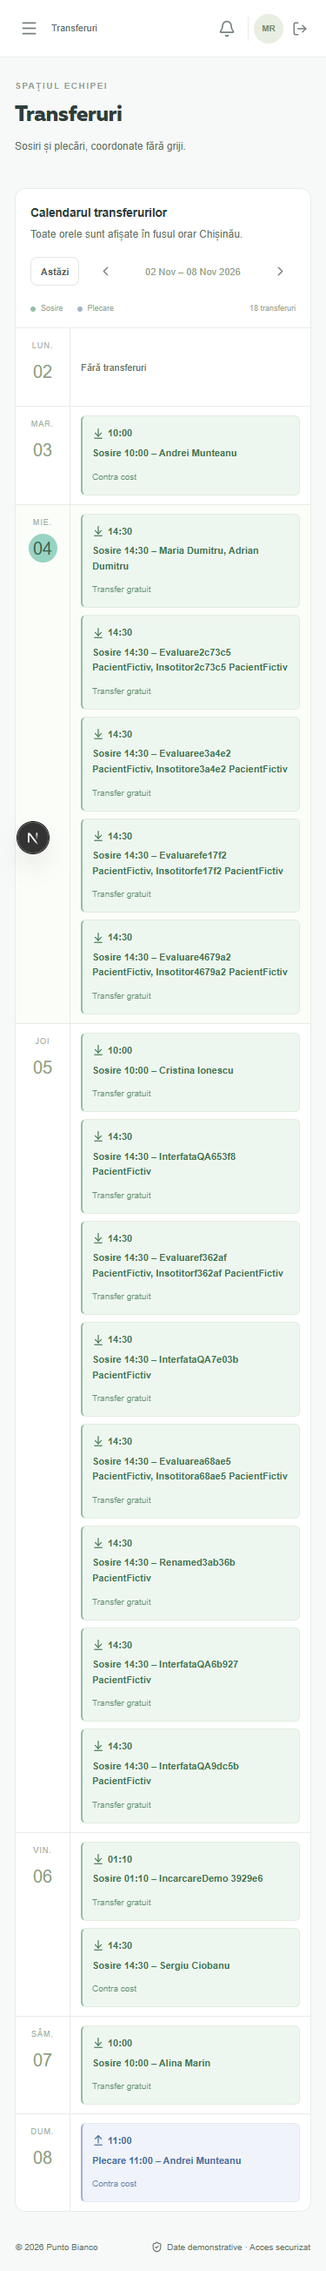
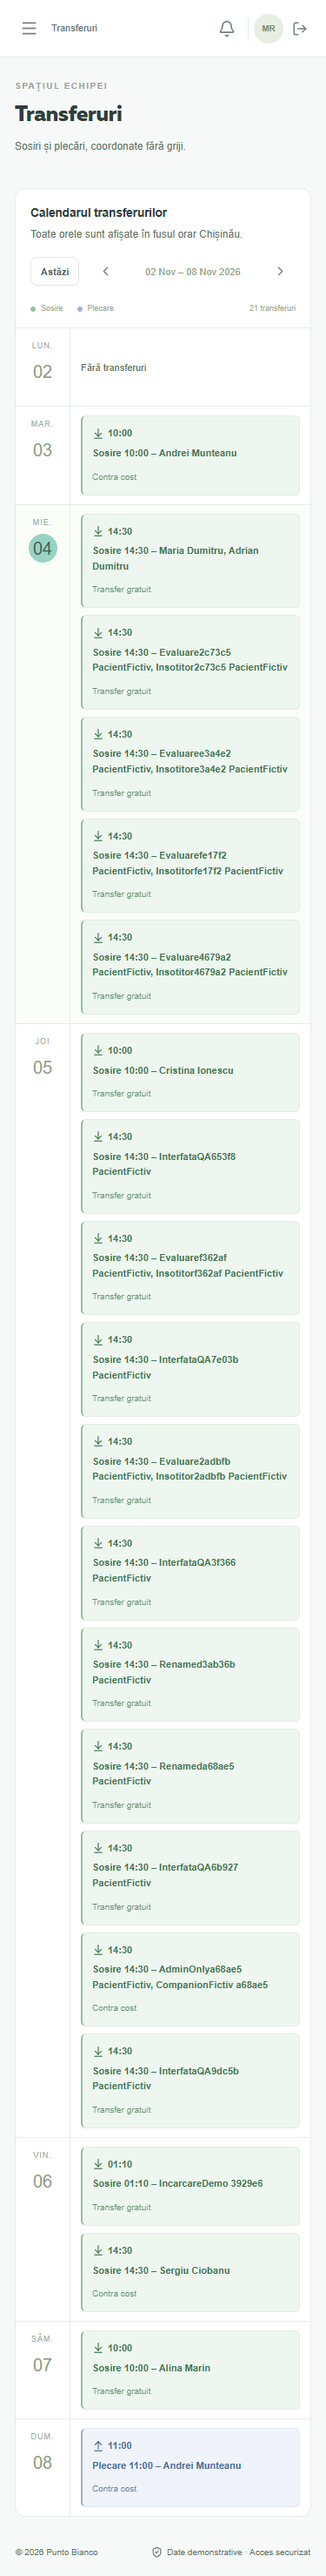
Record full assessment audit and repeat hosted 50-session verification

diff --git a/tests/load.integration.ts b/tests/load.integration.ts
@@ -23,15 +23,20 @@ try {
   /* First run. */
 }
 const measurements: { status: number; ms: number; method: string }[] = [];
+const available = saved;
+const reusedTokens = new Set<string>();
+saved = [];
 let subscribed = 0,
   events = 0;
 try {
   for (let batch = 0; batch < 10; batch++) {
+    let newSessions = 0;
     const batchResults = await Promise.allSettled(
       Array.from({ length: 5 }, async (_, j) => {
         const i = batch * 5 + j,
           role = roles[i % roles.length];
-        let session = saved[i];
+        let session = available.find((s) => s.role === role && !reusedTokens.has(s.token));
+        if (session) reusedTokens.add(session.token);
         const jar: Record<string, string> = session?.jar ?? {};
         if (!session) {
           const auth = createServerClient(
@@ -62,8 +67,9 @@ try {
             userId: signed.data.user.id,
             expiresAt: signed.data.session.expires_at!,
           };
-          saved[i] = session;
+          newSessions++;
         }
+        saved[i] = session;
         const client = createClient(
           process.env.NEXT_PUBLIC_SUPABASE_URL!,
           process.env.NEXT_PUBLIC_SUPABASE_PUBLISHABLE_KEY!,
@@ -85,6 +91,11 @@ try {
     await writeFile('.test-sessions.local.json', JSON.stringify(saved.filter(Boolean)));
     const failed = batchResults.find((r) => r.status === 'rejected');
     if (failed?.status === 'rejected') throw failed.reason;
+    // Prepare sessions below the token endpoint's refill rate, without changing Auth limits.
+    if (newSessions && batch < 9) {
+      console.log(`Prepared ${saved.filter(Boolean).length}/50 sessions; pacing new logins.`);
+      await new Promise((resolve) => setTimeout(resolve, 11000));
+    }
   }
   console.log('Authenticated sessions:', sessions.length);
   await Promise.all(

diff --git a/docs/ASSESSMENT-AUDIT.md b/docs/ASSESSMENT-AUDIT.md
@@ -1,0 +1,73 @@
+# Assessment requirement audit
+
+Audited on 4 November 2026 against the original `Tema de acasa Dezvoltator sisteme digitale PUNTO BIANCO.docx` and the matching brief pasted into the conversation. Functional revision: `471eb19`. Evidence below distinguishes implemented behavior from assumptions and external handoff tasks.
+
+Application: https://punto-bianco-operations.vercel.app  
+Private repository: https://github.com/Scofari/punto-bianco-operations
+
+## Application requirements
+
+| Requirement from the brief                             | Status                                | Evidence / qualification                                                                                                                                                                                                                                                                                   |
+| ------------------------------------------------------ | ------------------------------------- | ---------------------------------------------------------------------------------------------------------------------------------------------------------------------------------------------------------------------------------------------------------------------------------------------------------- |
+| Node.js, React, PostgreSQL                             | Pass                                  | Next.js App Router and React with TypeScript; real Supabase PostgreSQL and Auth, not browser-only mock storage.                                                                                                                                                                                            |
+| All seven staff roles                                  | Pass                                  | Seven independently authenticated demo accounts; API permission matrix and browser role workspaces tested.                                                                                                                                                                                                 |
+| Each role sees only relevant information               | Pass                                  | Every API operation reloads the authoritative active staff role. Driver, lodging and accounting responses exclude treatment; private operational schema is inaccessible through the browser Data API.                                                                                                      |
+| Accountant and quality control are read-only           | Pass                                  | No mutation controls; direct create/update/task/reservation/staff mutation requests return `403` for both roles.                                                                                                                                                                                           |
+| Patient first and last name                            | Pass                                  | Required, trimmed and length-validated on client/API.                                                                                                                                                                                                                                                      |
+| Optional companion without treatment                   | Pass                                  | Name is persisted and included on the shared transfer event.                                                                                                                                                                                                                                               |
+| Treated companion has all the same fields              | Pass                                  | Reuses the complete registration form and schema; independent linked visit, case and lodging request. Matching transfers are grouped.                                                                                                                                                                      |
+| Arrival and departure dates and times                  | Pass                                  | Both required; departure must be later. Clinic-local input and UTC persistence. Field-wide native picker activation is verified.                                                                                                                                                                           |
+| Availability comment                                   | Pass                                  | Free-text comment persisted and visible to permitted case roles. Empty means no stated restriction.                                                                                                                                                                                                        |
+| Treatment free text                                    | Pass                                  | Persisted separately from logistics and omitted from logistics-role payloads.                                                                                                                                                                                                                              |
+| All four apartment categories                          | Pass                                  | Studio; one bedroom + sofa; two bedrooms; two bedrooms + living. Every enum value is tested.                                                                                                                                                                                                               |
+| Free/paid lodging and number of free days              | Pass with agreed interpretation       | The approved plan uses **nights**, not inclusive calendar days. Free lodging requires 1–365 whole nights, capped at clinic-local stay nights; paid lodging has zero free nights. Short overnight stays and DST are covered. Confirm this business interpretation with the clinic at handoff.               |
+| No transfer / free or paid / one-way or round-trip     | Pass                                  | Explicit `none`, `arrival`, `departure`, `round_trip` choices; paid one-way and grouped round-trip cases verified through the API.                                                                                                                                                                         |
+| Responsible coordinator selected from a list           | Pass with permission rule             | Only active admin/coordinator identities are valid. Admin may assign a coordinator; a coordinator registers and manages their own assignments, as agreed in the implementation plan.                                                                                                                       |
+| Back Office automatic notification                     | Pass                                  | Recipient-specific notifications written in the registration transaction; persisted notifications verified through real role sessions.                                                                                                                                                                     |
+| Back Office sorted by arrival                          | Pass                                  | Server-side ascending arrival order with stable ID tie-break. Search/status filters operate before pagination.                                                                                                                                                                                             |
+| Back Office “Început” then “Finalizat”                 | Pass                                  | Enforced server transition sequence; concurrent claims have one winner; completed work survives visit edits.                                                                                                                                                                                               |
+| Driver calendar and requested labels                   | Pass                                  | Desktop week calendar and mobile agenda. Labels now include direction, clinic time and passenger names: `Sosire 14:30 – …`. Week boundaries are independent of the viewer's timezone; Hawaii browser workflow and DST unit checks pass. This is an internal calendar, not Google Calendar synchronization. |
+| Accommodation notification, “Neprelucrat” → “Rezervat” | Pass                                  | Transactional notification, persisted request and required reservation reference/address; browser workflow covers reservation. Changed lodging requirements visibly warn and reset stale reservations.                                                                                                     |
+| Responsive design, supplied logo and colors            | Pass                                  | Original complete logo, mint `#98D3C3` and gray `#565555`; desktop and 375px layouts checked. No mobile document overflow in the browser workflow.                                                                                                                                                         |
+| At least 50 simultaneously connected users             | Bounded verification                  | Hosted 50-session / 50-subscription load evidence is in `load-results.json` and `VERIFICATION.md`. Sessions use seven repeated demo identities; this is not a long-running capacity guarantee or a 50-person usability test.                                                                               |
+| Later Bitrix24 and other API integrations              | Foundation delivered                  | Versioned, documented `/api/v1` API; validation, authorization, idempotency and conflicts are implemented. Live Bitrix24 and machine credentials are future work, as planned.                                                                                                                              |
+| Invented data only                                     | Pass                                  | Synthetic seed data and explicitly fictional test fixtures; no real patient data imported.                                                                                                                                                                                                                 |
+| Entire Muller font family                              | **Incomplete: external asset needed** | See the font inspection below. System fallbacks preserve readable Romanian.                                                                                                                                                                                                                                |
+
+## Problems found and fixed in this audit
+
+1. Lodging search and status tabs only filtered the current 25-record page. Both lodging and case filtering now run in SQL before pagination. Totals remain accurate even on empty pages.
+2. Calendar weeks used the viewer's computer timezone. They now use clinic-local calendar dates and timezone-independent day arithmetic.
+3. Transfer headings separated the time from the requested label. The heading now matches the direction/time/name format.
+4. The admin coordinator selector included non-coordinator roles. It now offers only active eligible staff.
+5. A treated companion's renamed visit left an old name on the primary case. The linked visit's current name is now used.
+6. Browser workflow tests depended on a separate load-test session cache and assumed new patients appeared on page one. They now sign into each role independently, search globally, and exercise a different viewer timezone.
+
+The earlier negative-number and full-logo corrections are retained and regression-checked.
+
+## Font inspection
+
+The original `Muller.zip` supplies limited commercial demo weights and separate trial files, not a licensed complete production family. The authorized ExtraBold face is embedded only for basic Latin; Romanian extended characters in that demo face show demo markings, so those characters and unavailable weights use system fallbacks. Trial fonts are not deployed.
+
+The newly supplied `muller (1).zip` contains `Mller.ttf`, `COPYRIGHT.txt` and `README.txt`. Font metadata identifies a single non-variable 400-weight “Müller” font, version dated 7 October 2013, with a placeholder company copyright. Its Unicode cmap lacks `ă/Ă`, `ș/Ș` and `ț/Ț`. The archive contains no grant of web-embedding rights. It is not a full Fontfabric Muller family and has not been deployed. Completing this requirement needs an authorized full family with Romanian glyphs and web-embedding permissions.
+
+## Submission and process requirements
+
+| Deliverable                                      | Status                                                                                                                                                                                                                                                                    |
+| ------------------------------------------------ | ------------------------------------------------------------------------------------------------------------------------------------------------------------------------------------------------------------------------------------------------------------------------- |
+| Published application link                       | Available above; deployment and live workflow verified.                                                                                                                                                                                                                   |
+| Admin login and password                         | Provisioned and privately delivered; all seven accounts are in ignored `credentials.local.md`. Credentials are intentionally absent from Git.                                                                                                                             |
+| GitHub repository link                           | Available above; confirmed private. Git begins with scope notes and contains genuine implementation, verification and follow-up commits. History has not been fabricated or rewritten.                                                                                    |
+| Reviewer access if private                       | Deferred by the user until usernames are supplied; instructions below.                                                                                                                                                                                                    |
+| AI tools, corrections and what to do differently | `AI-WORKLOG.md` records actual Codex assistance, candidate-reported defects, verification and tradeoffs. No claim of unaided implementation.                                                                                                                              |
+| Suggested additional functions                   | Booking-conflict detection, cancellation/rescheduling, flight and driver details, overdue reminders, scoped Bitrix24 integration and fuller audit views.                                                                                                                  |
+| Actual hours spent                               | Not stopwatch-measured. The work log separates the original 12–16-hour estimate, the initial reconstructed active-work estimate, and later follow-up work. Candidate review/learning time must be added honestly before submission; wall-clock gaps are not coding hours. |
+| Two-working-day deadline                         | Delivery timing is visible in Git; confirm the actual receipt/submission dates with the employer. No receipt timestamp or deadline guarantee is invented.                                                                                                                 |
+
+## Grant reviewer access later
+
+Keep the repository private, as requested. Once the clinic supplies its GitHub usernames, the repository owner opens the repository's **Settings → Collaborators → Add people**, selects the exact accounts and sends invitations. Reviewers must accept before they can read the private repository. Record acceptance before sending the final repository handoff. Do not add guessed accounts. These steps follow [GitHub's collaborator instructions](https://docs.github.com/en/repositories/managing-your-repositorys-settings-and-features/repository-access-and-collaboration/inviting-collaborators-to-a-personal-repository).
+
+## Verification limits
+
+The test suite exercises meaningful workflow, ownership, concurrency, privacy and validation cases, but is not a formal security certification or exhaustive cross-browser audit. Chrome desktop/mobile emulation is verified; other browser engines are not claimed. Optional Supabase leaked-password protection remains disabled; the security advisor reports that warning and no table-exposure/RLS finding. Public signup remains disabled and demo passwords are generated. Full paid typography, personal timesheet confirmation and reviewer invitations remain handoff items rather than silently claimed completed requirements.

diff --git a/docs/VERIFICATION.md b/docs/VERIFICATION.md
@@ -3,21 +3,21 @@
 Verified on 4 November 2026, Europe/Chisinau.
 
 Application: https://punto-bianco-operations.vercel.app  
-Functional source revision: `aaeb113` (subsequent documentation commits do not change runtime behavior).
+Functional source revision: `471eb19`. The full requirement mapping and remaining external items are in [ASSESSMENT-AUDIT.md](ASSESSMENT-AUDIT.md).
 
 | Check                                               | Result                                                                                          |
 | --------------------------------------------------- | ----------------------------------------------------------------------------------------------- |
 | TypeScript, including generated Next.js route types | Pass                                                                                            |
 | ESLint                                              | Pass                                                                                            |
-| Six domain tests                                    | Pass                                                                                            |
+| Ten domain tests                                    | Pass                                                                                            |
 | Optimized production build                          | Pass locally and on Vercel                                                                      |
 | GitHub Actions                                      | Pass                                                                                            |
-| HTTP workflow tests                                 | 61 checks passed locally and on the hosted application                                          |
+| HTTP workflow tests                                 | 84 checks passed locally and on the hosted application                                          |
 | Real role sessions                                  | Admin, coordinator, Back Office, accommodation, driver, accountant, quality                     |
 | Cross-role browser workflow                         | Registration → case start/completion → reservation → transfer visibility                        |
 | Persistence                                         | Saved data and notifications survived browser reload                                            |
 | Browser JavaScript errors                           | Zero in the completed workflow                                                                  |
-| Desktop and 375px mobile                            | Visually reviewed; mobile document overflow false                                               |
+| Desktop and 375px mobile                            | Visually reviewed; mobile document overflow false; workflow also uses Hawaii timezone           |
 | Data API                                            | Private schema unavailable, recipient-only notification RLS, anonymous access and writes denied |
 | Public registration                                 | Disabled in Supabase Auth; direct signup check verifies `signup_disabled`                       |
 | Runtime dependency audit                            | Zero vulnerabilities after the Zod patch                                                        |
@@ -28,12 +28,18 @@ Functional source revision: `aaeb113` (subsequent documentation commits do not c
 The load script established 50 distinct Auth sessions over seven fictional identities and held 50 authorized realtime subscriptions concurrently. Three measured rounds issued 150 requests, including 24 idempotent registration replays.
 
 - Unexpected errors: 0 (0%).
-- Warm-request p50: 278 ms.
-- Warm-request p95: 539 ms.
-- Maximum: 906 ms.
-- Realtime notifications observed: 29.
+- Warm-request p50: 304 ms.
+- Warm-request p95: 483 ms.
+- Maximum: 1006 ms.
+- Realtime notifications observed: 27.
 
-These measurements satisfy the planned 50-session check and the 1.5-second warm p95 target for this test. They do not establish sustained production capacity, large-dataset performance, or a 50-person usability study. Authentication burst limiting was preserved; initial session preparation was resumed using privately cached successful sessions. Raw results and limitations are in `load-results.json`.
+These measurements were repeated at 15:42 UTC on 4 November against the audit revision and satisfy the planned 50-session check and the 1.5-second warm p95 target for this test. They do not establish sustained production capacity, large-dataset performance, or a 50-person usability study. Authentication burst limiting was preserved: initial preparation reached a 429 at session 31, then resumed using privately cached sessions and paced new-login batches. The failed preparation attempt is not presented as a passing measurement. Raw successful results and limitations are in `load-results.json`. The earlier baseline recorded 539 ms p95.
+
+## Audit regressions
+
+The expanded HTTP suite verifies search and status filtering before pagination, accurate empty-page totals, coordinator ownership, read-only mutation boundaries, current linked-companion names, paid one-way transfers, and non-treated companions on shared transfers. The focused browser suite verifies negative typing/paste prevention, required/whole-number/range validity, shortened-stay validation, treated-companion controls, field-wide date picker invocation and five invalid API payloads returning `422`.
+
+The complete browser journey signs into all seven roles independently, registers at 375px, starts/completes Back Office work, reserves lodging and checks driver calendar/notification persistence. Viewer timezone is simulated as `Pacific/Honolulu`; clinic dates remain correct. No JavaScript errors or mobile document overflow were found. GitHub Actions passed for `471eb19`. The production dependency audit returned zero vulnerabilities. The Supabase security advisor returned only the existing optional leaked-password protection warning, with no table-exposure/RLS findings.
 
 ## Scope limitations retained
 

diff --git a/docs/AI-WORKLOG.md b/docs/AI-WORKLOG.md
@@ -64,3 +64,17 @@ Visual checks passed for desktop/mobile login and desktop/mobile sidebar, with n
 
 The candidate reported negative values accepted during editing and calendar activation limited to the icon. Added a reusable digits-only integer input with paste protection, native validity and accessible range feedback, shared by patient and treated-companion forms. Both client and API require positive whole free nights within the stay (maximum 365); paid accommodation sends zero. Corrected elapsed-hour rounding to count clinic-local calendar nights, including DST. Date fields call the native picker from the entire input and retain keyboard/browser fallbacks. Added domain regressions and an authenticated focused browser/API check in tests/form-validation.mjs. These changes were AI-assisted and prompted by candidate review.
 Verification: eight domain tests, TypeScript, lint and production build passed. The focused authenticated browser test passed negative typing/paste protection, empty/zero/over-limit rejection, shortened-stay validation, treated-companion reuse, mobile numeric keyboard hints and field-wide picker invocation. Five invalid direct API submissions returned 422 without creating records.
+
+## Full requirements re-audit — 2026-11-04
+
+Codex re-read the original DOCX and compared every functional and submission requirement with the code and deployment. The initial hosted baseline passed 61 API checks and direct Data API checks. Manual code review then found page-local lodging search/status filters, viewer-timezone week calculations, invalid staff options in the admin coordinator selector, and stale treated-companion names. These were corrected, with the transfer heading updated to match the brief. The candidate explicitly requested retaining the private repository until reviewer usernames are available.
+
+The new font archive was inspected independently: one non-variable 400-weight font named Muller/Müller, placeholder 2013 copyright, no embedding permission, and missing Romanian comma-below letters and breve A. It was not deployed or misrepresented as the full Fontfabric family. The original font limitation remains explicit.
+
+Verification expanded to ten domain tests and 84 API checks; all passed locally and on Vercel. The seven-role browser workflow now signs in independently, tests 375px registration and a Hawaii viewer timezone, and passes on the deployment with no JavaScript errors. The targeted numeric/picker regression also passes, as do TypeScript, lint, production build, GitHub Actions, direct Data API restrictions, and the production dependency audit (zero vulnerabilities). Supabase's security advisor reports only the existing optional leaked-password protection warning.
+
+A fresh load run initially reached the token endpoint's burst rate limit while preparing session 31. This was not counted as a passing load measurement. Successful sessions were cached privately; the harness now reuses each cached token once by its role and spaces new five-login batches by 11 seconds. This also fixes potential role/session mismatches after partially failed preparation. Authentication rate limits were not weakened. See the final load-results.json and VERIFICATION.md for measured outcomes.
+
+Time accounting clarification: the earlier 1–2-hour reconstructed estimate describes the first delivery windows only. Subsequent logo, numeric-input and requirements-audit follow-ups are separately evidenced by Git timestamps but were not stopwatch-measured. There is no confirmed exact total for candidate hands-on work; independent review and learning time must be reported by the candidate. Neither the original 12–16-hour budget nor elapsed overnight time should be submitted as measured hours.
+
+The resumed hosted load measurement at 15:42 UTC succeeded: 50 distinct authenticated sessions, 50 authorized subscriptions, 150 measured requests (24 idempotent writes), zero unexpected errors, 304 ms p50, 483 ms p95 and 1006 ms maximum. Twenty-seven realtime events were observed. The dataset and repeated-identity limits remain explicit.

diff --git a/README.md b/README.md
@@ -71,7 +71,7 @@ Integration commands use `.env.local` and fictional records in the assessment da
 
 The original verification recorded six domain tests and 61 HTTP workflow checks locally and on Vercel. The requirements re-audit expands this to ten domain tests and 84 HTTP checks, including global filtering, empty-page totals, every read-only mutation boundary, coordinator ownership, and companions with/without treatment. Direct Data API/RLS checks and the seven-role browser workflow also pass. The browser workflow runs from a simulated Hawaii timezone; calendar dates remain in Chișinău. Desktop and 375px mobile views were inspected, with no mobile document overflow or JavaScript errors. See [the complete requirement audit](docs/ASSESSMENT-AUDIT.md) for the final evidence and remaining gaps.
 
-The bounded hosted load check sustained **50 authenticated sessions and 50 authorized realtime subscriptions**, then executed **150 requests, including 24 idempotent registration replays**, with **0 unexpected errors**, **278 ms p50** and **539 ms p95**. See [docs/load-results.json](docs/load-results.json). This uses seven repeated demo identities, distinct Auth sessions and a small dataset; it is not a sustained-load guarantee. Initial rapid session preparation hit Supabase's Auth rate limiter; successful sessions were cached privately and remaining sessions were prepared without weakening that protection.
+The repeated hosted load check sustained **50 authenticated sessions and 50 authorized realtime subscriptions**, then executed **150 requests, including 24 idempotent registration replays**, with **0 unexpected errors**, **304 ms p50** and **483 ms p95**. See [docs/load-results.json](docs/load-results.json). This uses seven repeated demo identities, distinct Auth sessions and a small dataset; it is not a sustained-load guarantee. Initial rapid session preparation hit Supabase's Auth rate limiter; successful sessions were cached privately and remaining sessions were prepared at a paced rate without weakening that protection. The previous baseline recorded 539 ms p95.
 
 The production dependency audit reports no vulnerabilities after upgrading Zod to the patched release. The Supabase security advisor reports no table-exposure/RLS issues; its remaining warning concerns optional [leaked-password protection](https://supabase.com/docs/guides/auth/password-security#password-strength-and-leaked-password-protection). Demo passwords are generated randomly, and public signup is disabled. Development dependency advisories are separate from this runtime audit.
 
